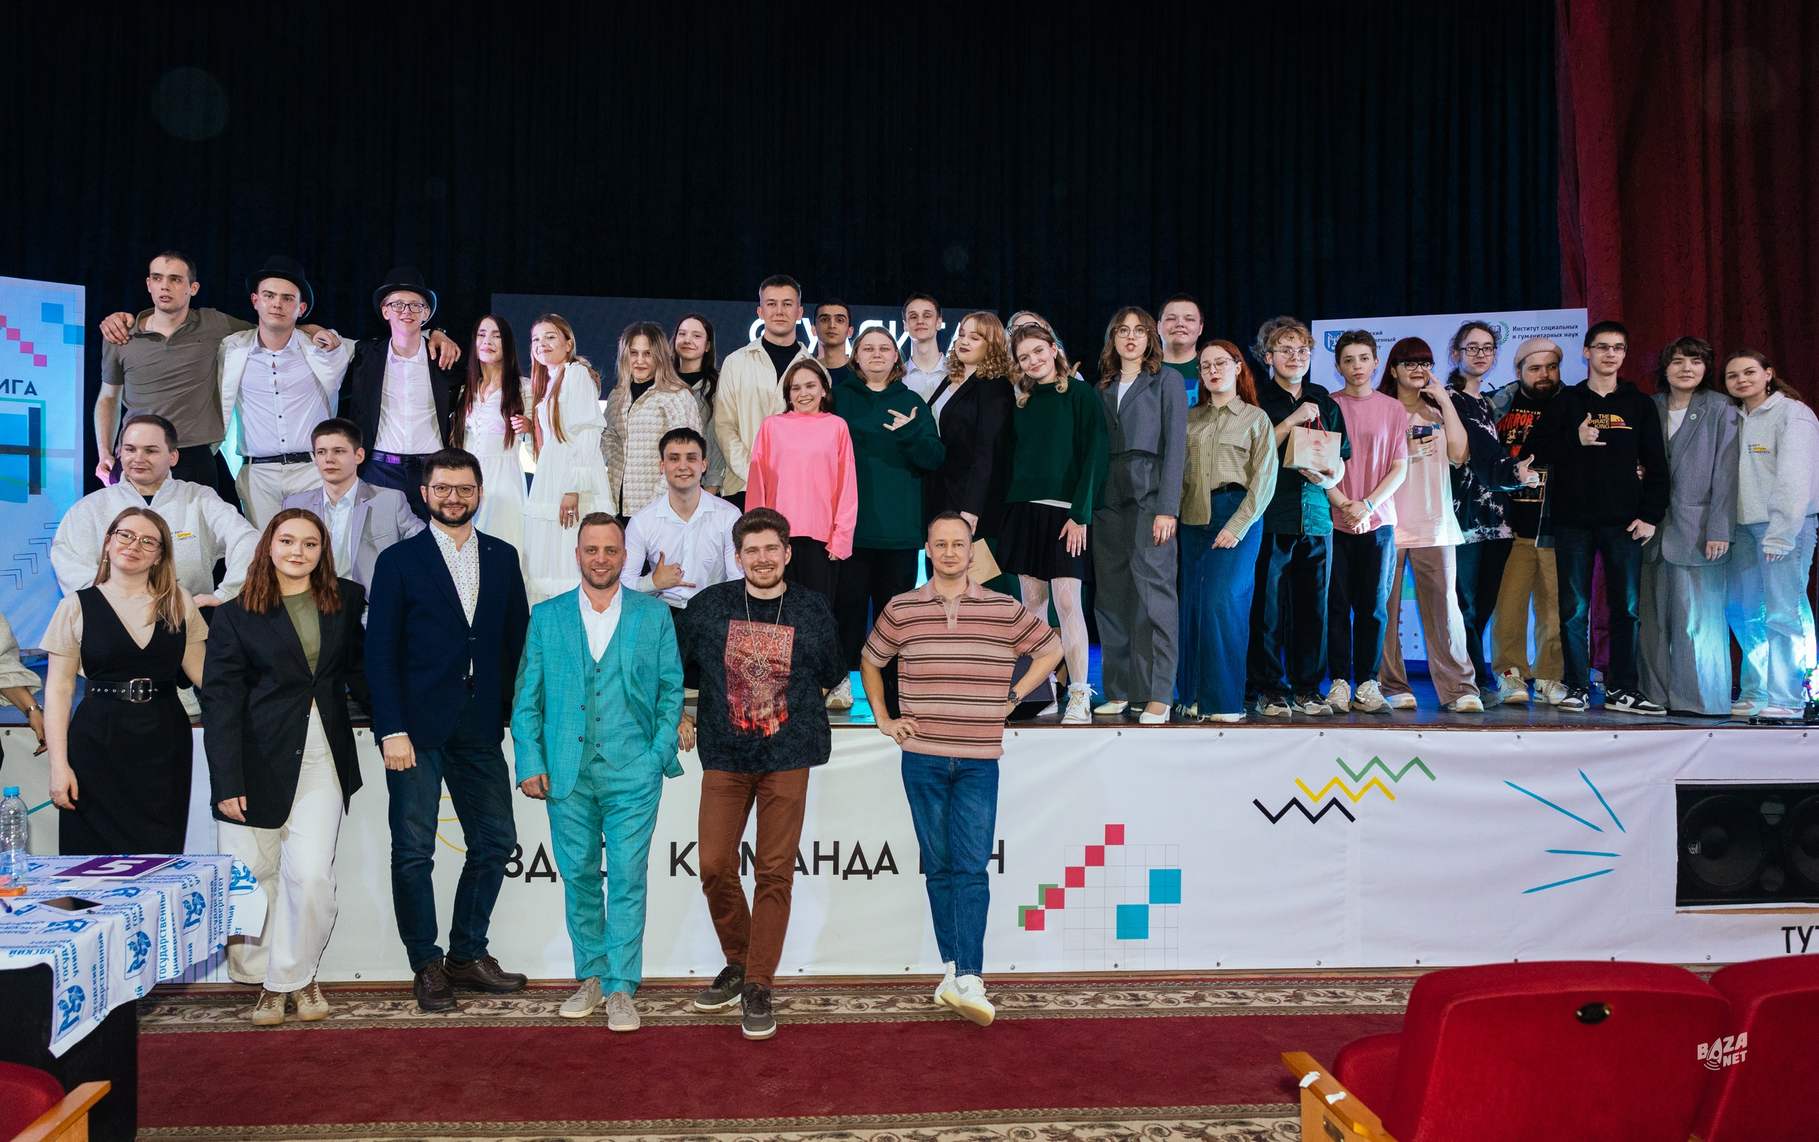
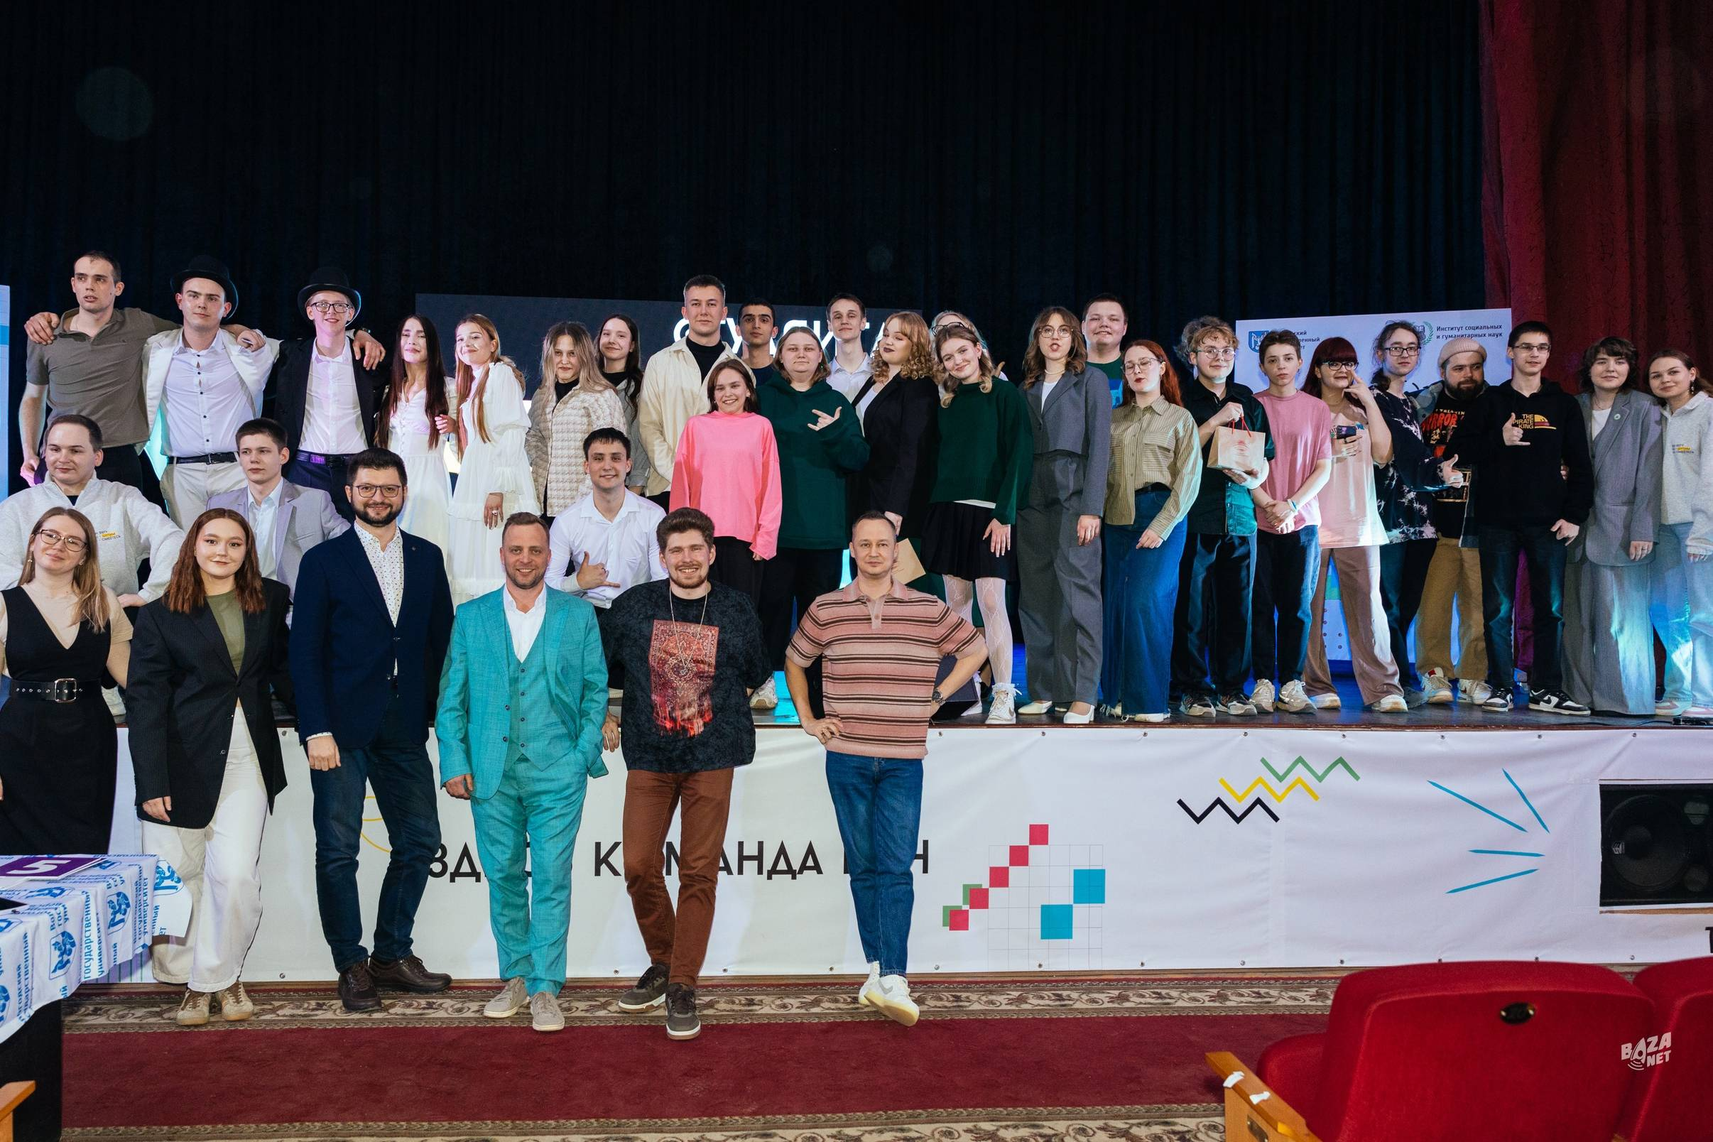
Стандартизация изображений

diff --git a/comands.html b/comands.html
@@ -20,8 +20,8 @@
         </div>
         <div class="block_info">
             <div class="img_container">
-                <img class="back_img" src="static/images/comands/smel_back.jpg" width="100%">
-                <img class="front_img" src="static/images/comands/smel_transp.png" width="100%" alt="СМЭЛ на редактуре">
+                <img class="back_img" src="static/images/commands_crop/smel_back.jpg" width="100%">
+                <img class="front_img" src="static/images/comands_crop/smel_transp.png" width="100%" alt="СМЭЛ на редактуре">
             </div>
             <div class="description">
                 <div class="main_text">
@@ -76,8 +76,8 @@
                 </div>
             </div>
             <div class="img_container">
-                <img class="back_img" src="static/images/comands/kop_back.jpg" width="100%">
-                <img class="front_img" src="static/images/comands/kop_transp.png" width="100%" alt="Коопера на редактуре">
+                <img class="back_img" src="static/images/comands_crop/kop_back.jpg" width="100%">
+                <img class="front_img" src="static/images/comands_crop/kop_transp.png" width="100%" alt="Коопера на редактуре">
             </div>
         </div>
     </div>
@@ -87,8 +87,8 @@
         </div>
         <div class="block_info">
             <div class="img_container">
-                <img class="back_img" src="static/images/comands/ob_back.jpg" width="100%">
-                <img class="front_img" src="static/images/comands/ob_transp.png" width="100%" alt="Оранжевые буквы после выступления">
+                <img class="back_img" src="static/images/comands_crop/ob_back.jpg" width="100%">
+                <img class="front_img" src="static/images/comands_crop/ob_transp.png" width="100%" alt="Оранжевые буквы после выступления">
             </div>
             <div class="description">
                 <div class="main_text">
@@ -137,8 +137,8 @@
                 </div>
             </div>
             <div class="img_container">
-                <img class="back_img" src="static/images/comands/nu_back.jpg" width="100%">
-                <img class="front_img" src="static/images/comands/nu_transp.png" width="100%" alt="Ну такие позируют">
+                <img class="back_img" src="static/images/comands_crop/nu_back.jpg" width="100%">
+                <img class="front_img" src="static/images/comands_crop/nu_transp.png" width="100%" alt="Ну такие позируют">
             </div>
         </div>
     </div>
@@ -148,8 +148,8 @@
         </div>
         <div class="block_info">
             <div class="img_container">
-                <img class="back_img" src="static/images/comands/99_back.jpg" width="100%">
-                <img class="front_img" src="static/images/comands/99_transp.png" width="100%" alt="99 стайл после выступления">
+                <img class="back_img" src="static/images/comands_crop/99_back.jpg" width="100%">
+                <img class="front_img" src="static/images/comands_crop/99_transp.png" width="100%" alt="99 стайл после выступления">
             </div>
             <div class="description">
                 <div class="main_text">
@@ -205,8 +205,8 @@
                 </div>
             </div>
             <div class="img_container">
-                <img class="back_img" src="static/images/comands/def_back.jpg" width="100%">
-                <img class="front_img" src="static/images/comands/def_transp.png" width="100%" alt="Дефект позируют">
+                <img class="back_img" src="static/images/comands_crop/def_back.jpg" width="100%">
+                <img class="front_img" src="static/images/comands_crop/def_transp.png" width="100%" alt="Дефект позируют">
             </div>
         </div>
     </div>
@@ -216,8 +216,8 @@
         </div>
         <div class="block_info">
             <div class="img_container">
-                <img class="back_img" src="static/images/comands/par_back.jpg" width="100%">
-                <img class="front_img" src="static/images/comands/par_transp.png" width="100%" alt="Первая парта позирует">
+                <img class="back_img" src="static/images/comands_crop/par_back.jpg" width="100%">
+                <img class="front_img" src="static/images/comands_crop/par_transp.png" width="100%" alt="Первая парта позирует">
             </div>
             <div class="description">
                 <div class="main_text">
@@ -259,8 +259,8 @@
                 </div>
             </div>
             <div class="img_container">
-                <img class="back_img" src="static/images/comands/zhh_back.jpg" width="100%">
-                <img class="front_img" src="static/images/comands/zhh_transp.png" width="100%" alt="ЖХК слушают">
+                <img class="back_img" src="static/images/comands_crop/zhh_back.jpg" width="100%">
+                <img class="front_img" src="static/images/comands_crop/zhh_transp.png" width="100%" alt="ЖХК слушают">
             </div>
         </div>
     </div>
@@ -270,8 +270,8 @@
         </div>
         <div class="block_info">
             <div class="img_container">
-                <img class="back_img" src="static/images/comands/kto_back.jpg" width="100%">
-                <img class="front_img" src="static/images/comands/kto_transp.png" width="100%" alt="Кто куда на редактуре">
+                <img class="back_img" src="static/images/comands_crop/kto_back.jpg" width="100%">
+                <img class="front_img" src="static/images/comands_crop/kto_transp.png" width="100%" alt="Кто куда на редактуре">
             </div>
             <div class="description">
                 <div class="main_text">
@@ -303,8 +303,8 @@
                 </div>
             </div>
             <div class="img_container">
-                <img class="back_img" src="static/images/comands/casta_back.jpg" width="100%">
-                <img class="front_img" src="static/images/comands/casta_transp.png" width="100%" alt="Каста здесь">
+                <img class="back_img" src="static/images/comands_crop/casta_back.jpg" width="100%">
+                <img class="front_img" src="static/images/comands_crop/casta_transp.png" width="100%" alt="Каста здесь">
             </div>
         </div>
     </div>
@@ -314,8 +314,8 @@
         </div>
         <div class="block_info">
             <div class="img_container">
-                <img class="back_img" src="static/images/comands/22_back.jpg" width="100%">
-                <img class="front_img" src="static/images/comands/22_transp.png" width="100%" alt="2+2 на сцене">
+                <img class="back_img" src="static/images/comands_crop/22_back.jpg" width="100%">
+                <img class="front_img" src="static/images/comands_crop/22_transp.png" width="100%" alt="2+2 на сцене">
             </div>
             <div class="description">
                 <div class="main_text">
@@ -353,8 +353,8 @@
                 </div>
             </div>
             <div class="img_container">
-                <img class="back_img" src="static/images/comands/eb_back.jpg" width="100%">
-                <img class="front_img" src="static/images/comands/eb_transp.png" width="100%" alt="Если бы позируют">
+                <img class="back_img" src="static/images/comands_crop/eb_back.jpg" width="100%">
+                <img class="front_img" src="static/images/comands_crop/eb_transp.png" width="100%" alt="Если бы позируют">
             </div>
         </div>
     </div>
@@ -364,8 +364,8 @@
         </div>
         <div class="block_info">
             <div class="img_container">
-                <img class="back_img" src="static/images/comands/13_back.jpg" width="100%">
-                <img class="front_img" src="static/images/comands/13_transp.png" width="100%" alt="3 Дениса">
+                <img class="back_img" src="static/images/comands_crop/13_back.jpg" width="100%">
+                <img class="front_img" src="static/images/comands_crop/13_transp.png" width="100%" alt="3 Дениса">
             </div>
             <div class="description">
                 <div class="main_text">
@@ -411,8 +411,8 @@
                 </div>
             </div>
             <div class="img_container">
-                <img class="back_img" src="static/images/comands/kro_back.jpg" width="100%">
-                <img class="front_img" src="static/images/comands/kro_transp.png" width="100%" alt="Крошки после выступления">
+                <img class="back_img" src="static/images/comands_crop/kro_back.jpg" width="100%">
+                <img class="front_img" src="static/images/comands_crop/kro_transp.png" width="100%" alt="Крошки после выступления">
             </div>
         </div>
     </div>

diff --git a/zhuri.html b/zhuri.html
@@ -19,8 +19,8 @@
         </div>
         <div class="block_info">
             <div class="img_container">
-                <img class="back_img" src="static/images/zhuri/konst_zim_back.jpg" width="100%">
-                <img class="front_img" src="static/images/zhuri/konst_zim_transp.png" width="100%">
+                <img class="back_img" src="static/images/zhuri_crop/konst_zim_back.jpg" width="100%">
+                <img class="front_img" src="static/images/zhuri_crop/konst_zim_transp.png" width="100%">
             </div>
             <div class="description">
                 <div class="main_text">
@@ -48,8 +48,8 @@
                 </div>
             </div>
             <div class="img_container">
-                <img class="back_img" src="static/images/zhuri/il_gor_back.jpg" width="100%">
-                <img class="front_img" src="static/images/zhuri/il_gor_transp.png" width="100%">
+                <img class="back_img" src="static/images/zhuri_crop/il_gor_back.jpg" width="100%">
+                <img class="front_img" src="static/images/zhuri_crop/il_gor_transp.png" width="100%">
             </div>
         </div>
     </div>
@@ -59,8 +59,8 @@
         </div>
         <div class="block_info">
             <div class="img_container">
-                <img class="back_img" src="static/images/zhuri/lid_sok_back.jpg" width="100%">
-                <img class="front_img" src="static/images/zhuri/lid_sok_transp.png" width="100%">
+                <img class="back_img" src="static/images/zhuri_crop/lid_sok_back.jpg" width="100%">
+                <img class="front_img" src="static/images/zhuri_crop/lid_sok_transp.png" width="100%">
             </div>
             <div class="description">
                 <div class="main_text">
@@ -80,8 +80,8 @@
                 </div>
             </div>
              <div class="img_container">
-                <img class="back_img" src="static/images/zhuri/ekat_rum_back.jpg" width="100%">
-                <img class="front_img" src="static/images/zhuri/ekat_rum_transp.png" width="100%">
+                <img class="back_img" src="static/images/zhuri_crop/ekat_rum_back.jpg" width="100%">
+                <img class="front_img" src="static/images/zhuri_crop/ekat_rum_transp.png" width="100%">
             </div>
         </div>
     </div>
@@ -91,8 +91,8 @@
         </div>
         <div class="block_info">
             <div class="img_container">
-                <img class="back_img" src="static/images/zhuri/vlad_yac_back.jpg" width="100%">
-                <img class="front_img" src="static/images/zhuri/vlad_yac_transp.png" width="100%">
+                <img class="back_img" src="static/images/zhuri_crop/vlad_yac_back.jpg" width="100%">
+                <img class="front_img" src="static/images/zhuri_crop/vlad_yac_transp.png" width="100%">
             </div>
             <div class="description">
                 <div class="main_text">
@@ -117,8 +117,8 @@
                 </div>
             </div>
             <div class="img_container">
-                <img class="back_img" src="static/images/zhuri/vit_kob_back.jpg" width="100%">
-                <img class="front_img" src="static/images/zhuri/vit_kob_transp.png" width="100%">
+                <img class="back_img" src="static/images/zhuri_crop/vit_kob_back.jpg" width="100%">
+                <img class="front_img" src="static/images/zhuri_crop/vit_kob_transp.png" width="100%">
             </div>
         </div>
     </div>
@@ -128,8 +128,8 @@
         </div>
         <div class="block_info">
             <div class="img_container">
-                <img class="back_img" src="static/images/zhuri/ar_tan_back.jpg" width="100%">
-                <img class="front_img" src="static/images/zhuri/ar_tan_transp.png" width="100%">
+                <img class="back_img" src="static/images/zhuri_crop/ar_tan_back.jpg" width="100%">
+                <img class="front_img" src="static/images/zhuri_crop/ar_tan_transp.png" width="100%">
             </div>
             <div class="description">
                 <div class="main_text">
@@ -149,8 +149,8 @@
                 </div>
             </div>
             <div class="img_container">
-                <img class="back_img" src="static/images/zhuri/sev_mas_back.jpg" width="100%">
-                <img class="front_img" src="static/images/zhuri/sev_mas_transp.png" width="100%">
+                <img class="back_img" src="static/images/zhuri_crop/sev_mas_back.jpg" width="100%">
+                <img class="front_img" src="static/images/zhuri_crop/sev_mas_transp.png" width="100%">
             </div>
         </div>
     </div>
@@ -160,8 +160,8 @@
         </div>
         <div class="block_info">
             <div class="img_container">
-                <img class="back_img" src="static/images/zhuri/dm_kriv_back.jpg" width="100%">
-                <img class="front_img" src="static/images/zhuri/dm_kriv_transp.png" width="100%">
+                <img class="back_img" src="static/images/zhuri_crop/dm_kriv_back.jpg" width="100%">
+                <img class="front_img" src="static/images/zhuri_crop/dm_kriv_transp.png" width="100%">
             </div>
             <div class="description">
                 <div class="main_text">
@@ -186,8 +186,8 @@
                 </div>
             </div>
             <div class="img_container">
-                <img class="back_img" src="static/images/zhuri/kir_ust_back.jpg" width="100%">
-                <img class="front_img" src="static/images/zhuri/kir_ust_transp.png" width="100%">
+                <img class="back_img" src="static/images/zhuri_crop/kir_ust_back.jpg" width="100%">
+                <img class="front_img" src="static/images/zhuri_crop/kir_ust_transp.png" width="100%">
             </div>
         </div>
     </div>
@@ -197,8 +197,8 @@
         </div>
         <div class="block_info">
             <div class="img_container">
-                <img class="back_img" src="static/images/zhuri/vik_ok_back.jpg" width="100%">
-                <img class="front_img" src="static/images/zhuri/vik_ok_transp.png" width="100%">
+                <img class="back_img" src="static/images/zhuri_crop/vik_ok_back.jpg" width="100%">
+                <img class="front_img" src="static/images/zhuri_crop/vik_ok_transp.png" width="100%">
             </div>
             <div class="description">
                 <div class="main_text">
@@ -218,8 +218,8 @@
                 </div>
             </div>
             <div class="img_container">
-                <img class="back_img" src="static/images/zhuri/maks_sch_back.jpg" width="100%">
-                <img class="front_img" src="static/images/zhuri/maks_sch_transp.png" width="100%">
+                <img class="back_img" src="static/images/zhuri_crop/maks_sch_back.jpg" width="100%">
+                <img class="front_img" src="static/images/zhuri_crop/maks_sch_transp.png" width="100%">
             </div>
         </div>
     </div>

diff --git a/redactors.html b/redactors.html
@@ -19,8 +19,8 @@
         </div>
         <div class="block_info">
             <div class="img_container">
-                <img class="back_img" src="static/images/redactors/nik_kr_back.jpg" width="100%">
-                <img class="front_img" src="static/images/redactors/nik_kr_transp.png" width="100%">
+                <img class="back_img" src="static/images/redactors_crop/nik_kr_back.jpg" width="100%">
+                <img class="front_img" src="static/images/redactors_crop/nik_kr_transp.png" width="100%">
             </div>
             <div class="description">
                 <div class="main_text">
@@ -45,8 +45,8 @@
                 </div>
             </div>
             <div class="img_container">
-                <img class="back_img" src="static/images/redactors/vas_avd_back.jpg" width="100%">
-                <img class="front_img" src="static/images/redactors/vas_avd_transp.png" width="100%">
+                <img class="back_img" src="static/images/redactors_crop/vas_avd_back.jpg" width="100%">
+                <img class="front_img" src="static/images/redactors_crop/vas_avd_transp.png" width="100%">
             </div>
         </div>
     </div>
@@ -56,8 +56,8 @@
         </div class="block_info">
             <div class="block_info">
                 <div class="img_container">
-                    <img class="back_img" src="static/images/redactors/stas_niz_back.jpg" width="100%">
-                    <img class="front_img" src="static/images/redactors/stas_niz_transp.png" width="100%">
+                    <img class="back_img" src="static/images/redactors_crop/stas_niz_back.jpg" width="100%">
+                    <img class="front_img" src="static/images/redactors_crop/stas_niz_transp.png" width="100%">
                 </div>
                 <div class="description">
                     <div class="main_text">
@@ -85,8 +85,8 @@
                 </div>
             </div>
             <div class="img_container">
-                <img class="back_img" src="static/images/redactors/sch_niv_back.jpg" width="100%">
-                <img class="front_img" src="static/images/redactors/sch_niv_transp.png" width="100%">
+                <img class="back_img" src="static/images/redactors_crop/sch_niv_back.jpg" width="100%">
+                <img class="front_img" src="static/images/redactors_crop/sch_niv_transp.png" width="100%">
             </div>
         </div>
     </div>
@@ -96,8 +96,8 @@
         </div>
         <div class="block_info">
             <div class="img_container">
-                <img class="back_img" src="static/images/redactors/lis_dan_back.jpg" width="100%">
-                <img class="front_img" src="static/images/redactors/lis_dan_transp.png" width="100%">
+                <img class="back_img" src="static/images/redactors_crop/lis_dan_back.jpg" width="100%">
+                <img class="front_img" src="static/images/redactors_crop/lis_dan_transp.png" width="100%">
             </div>
             <div class="description">
                 <div class="main_text">
@@ -123,8 +123,8 @@
                 </div>
             </div>
             <div class="img_container">
-                <img class="back_img" src="static/images/redactors/mih_muh_back.jpg" width="100%">
-                <img class="front_img" src="static/images/redactors/mih_muh_back.jpg" width="100%">
+                <img class="back_img" src="static/images/redactors_crop/mih_muh_back.jpg" width="100%">
+                <img class="front_img" src="static/images/redactors_crop/mih_muh_back.jpg" width="100%">
             </div>
         </div>
     </div>
@@ -134,8 +134,8 @@
         </div>
         <div class="block_info">
             <div class="img_container">
-                <img class="back_img" src="static/images/redactors/al_ter_back.jpg" width="100%">
-                <img class="front_img" src="static/images/redactors/al_ter_transp.png" width="100%">
+                <img class="back_img" src="static/images/redactors_crop/al_ter_back.jpg" width="100%">
+                <img class="front_img" src="static/images/redactors_crop/al_ter_transp.png" width="100%">
             </div>
             <div class="description">
                 <div class="main_text">
@@ -158,8 +158,8 @@
                 </div>
             </div>
             <div class="img_container">
-                <img class="back_img" src="static/images/redactors/kat_rub_back.jpg" width="100%">
-                <img class="front_img" src="static/images/redactors/kat_rub_transp.png" width="100%">
+                <img class="back_img" src="static/images/redactors_crop/kat_rub_back.jpg" width="100%">
+                <img class="front_img" src="static/images/redactors_crop/kat_rub_transp.png" width="100%">
             </div>
         </div>
     </div>
@@ -169,8 +169,8 @@
         </div>
         <div class="block_info">
             <div class="img_container">
-                <img class="back_img" src="static/images/redactors/ser_pad_back.jpg" width="100%">
-                <img class="front_img" src="static/images/redactors/ser_pad_transp.png" width="100%">
+                <img class="back_img" src="static/images/redactors_crop/ser_pad_back.jpg" width="100%">
+                <img class="front_img" src="static/images/redactors_crop/ser_pad_transp.png" width="100%">
             </div>
             <div class="description">
                 <div class="main_text">
